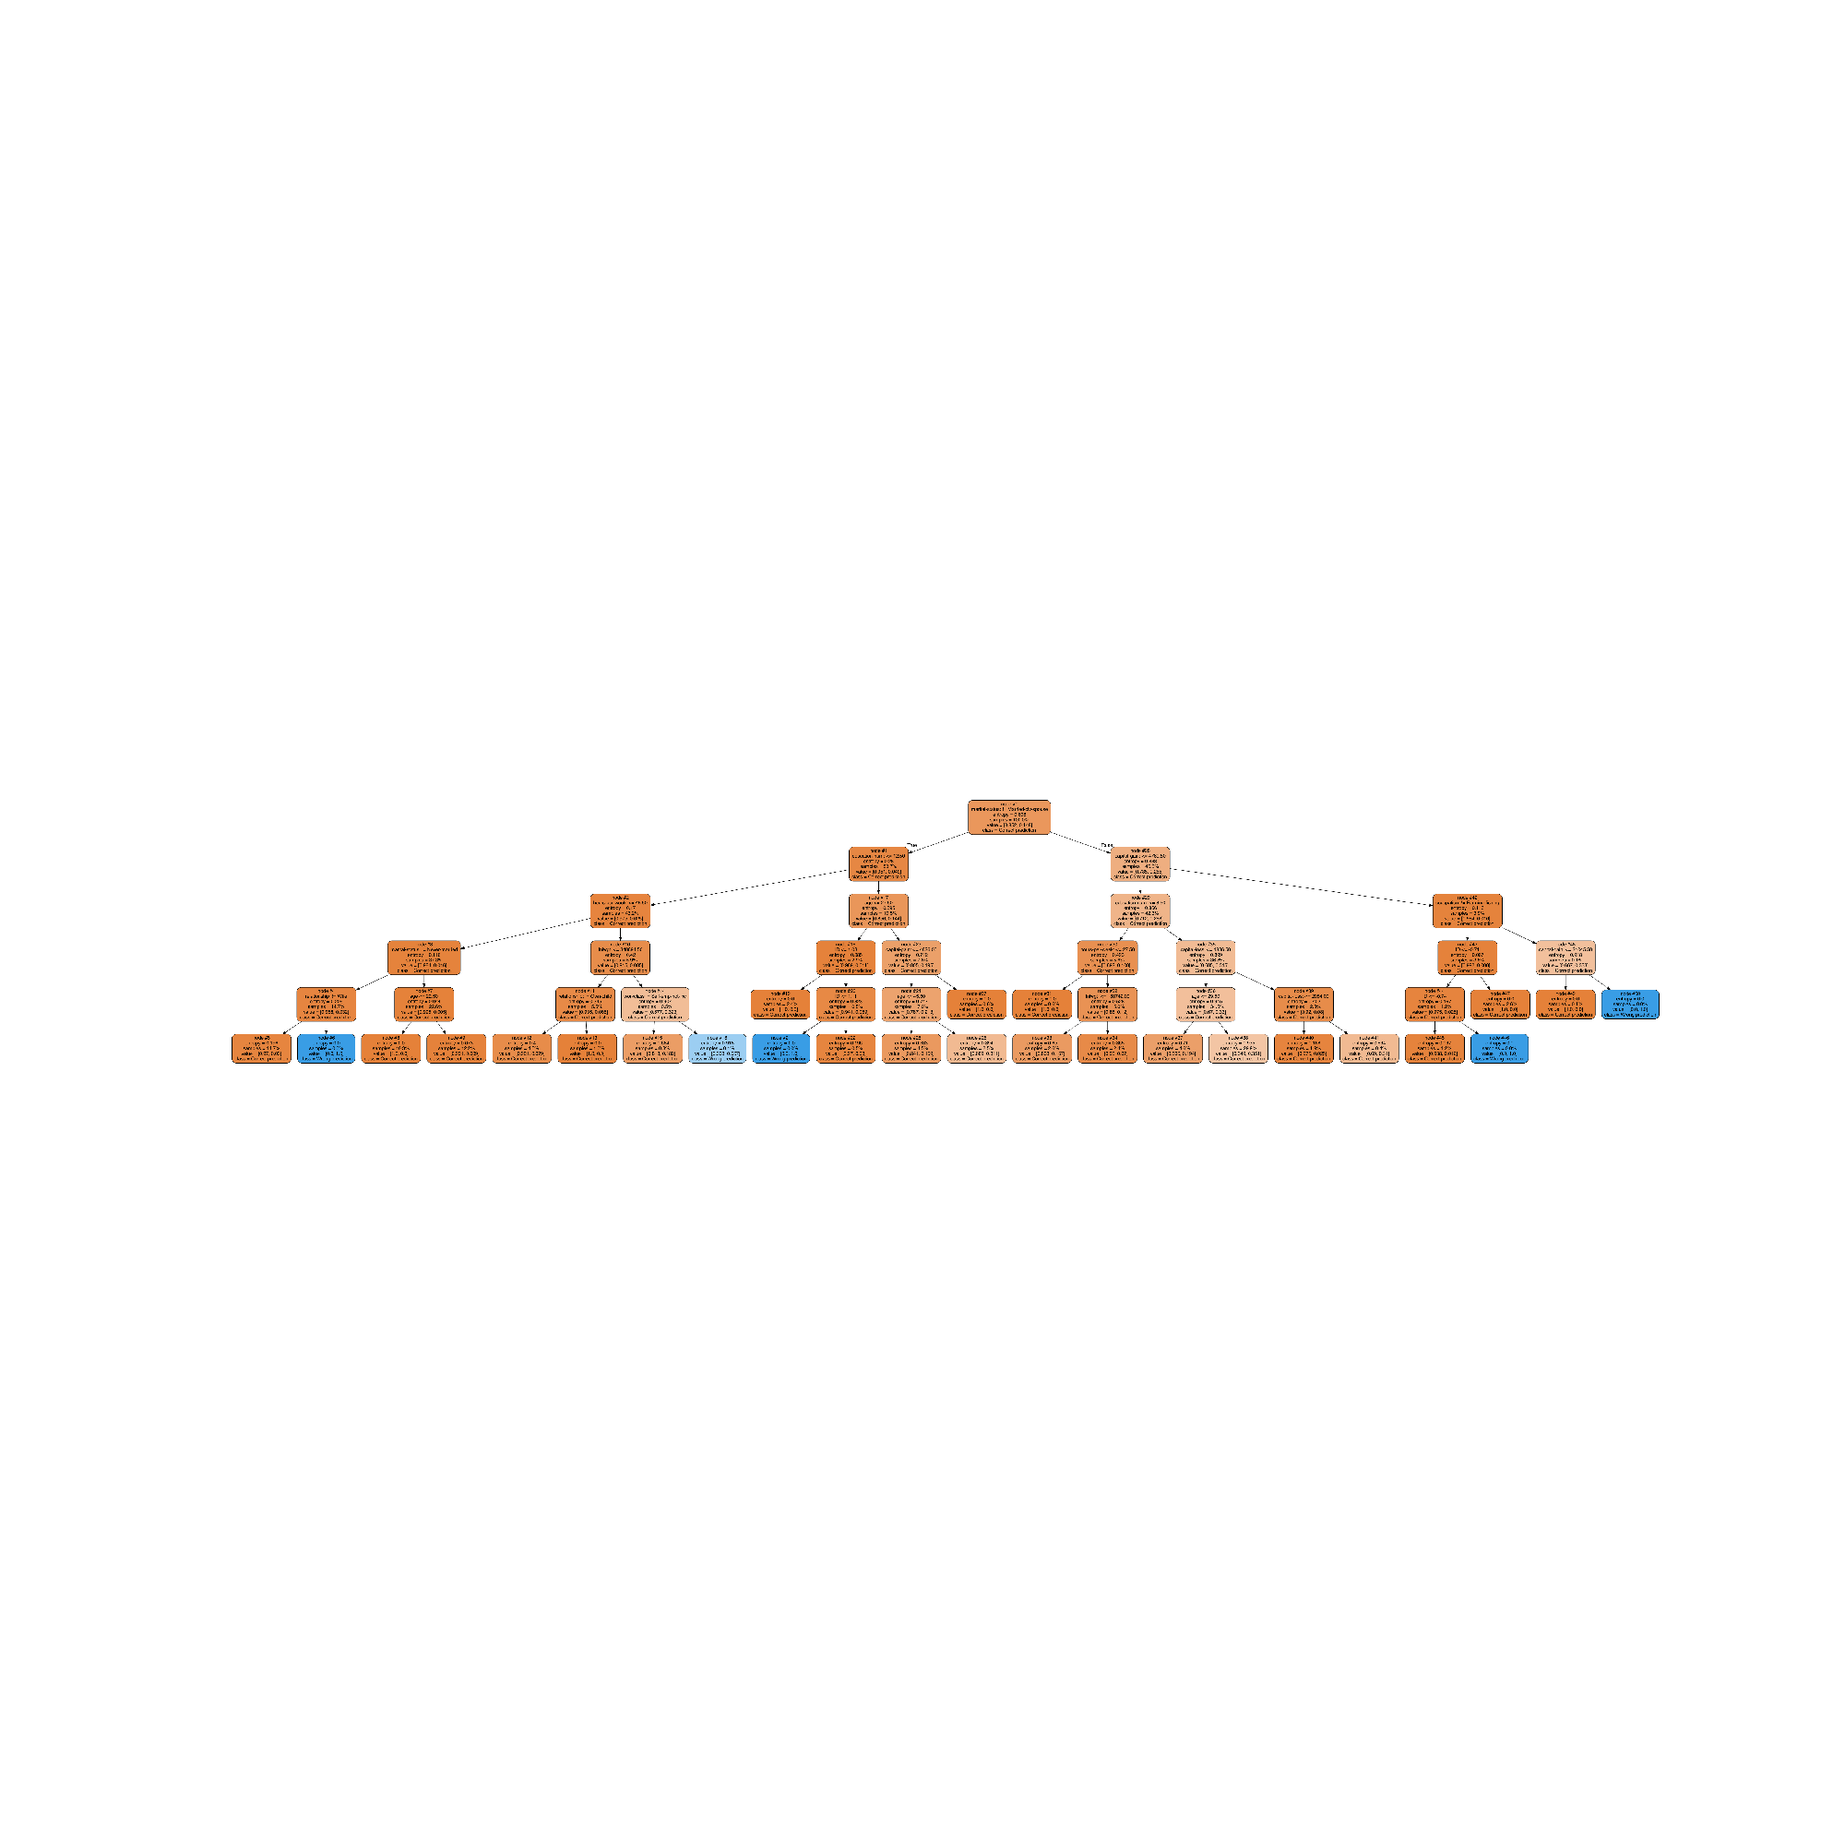
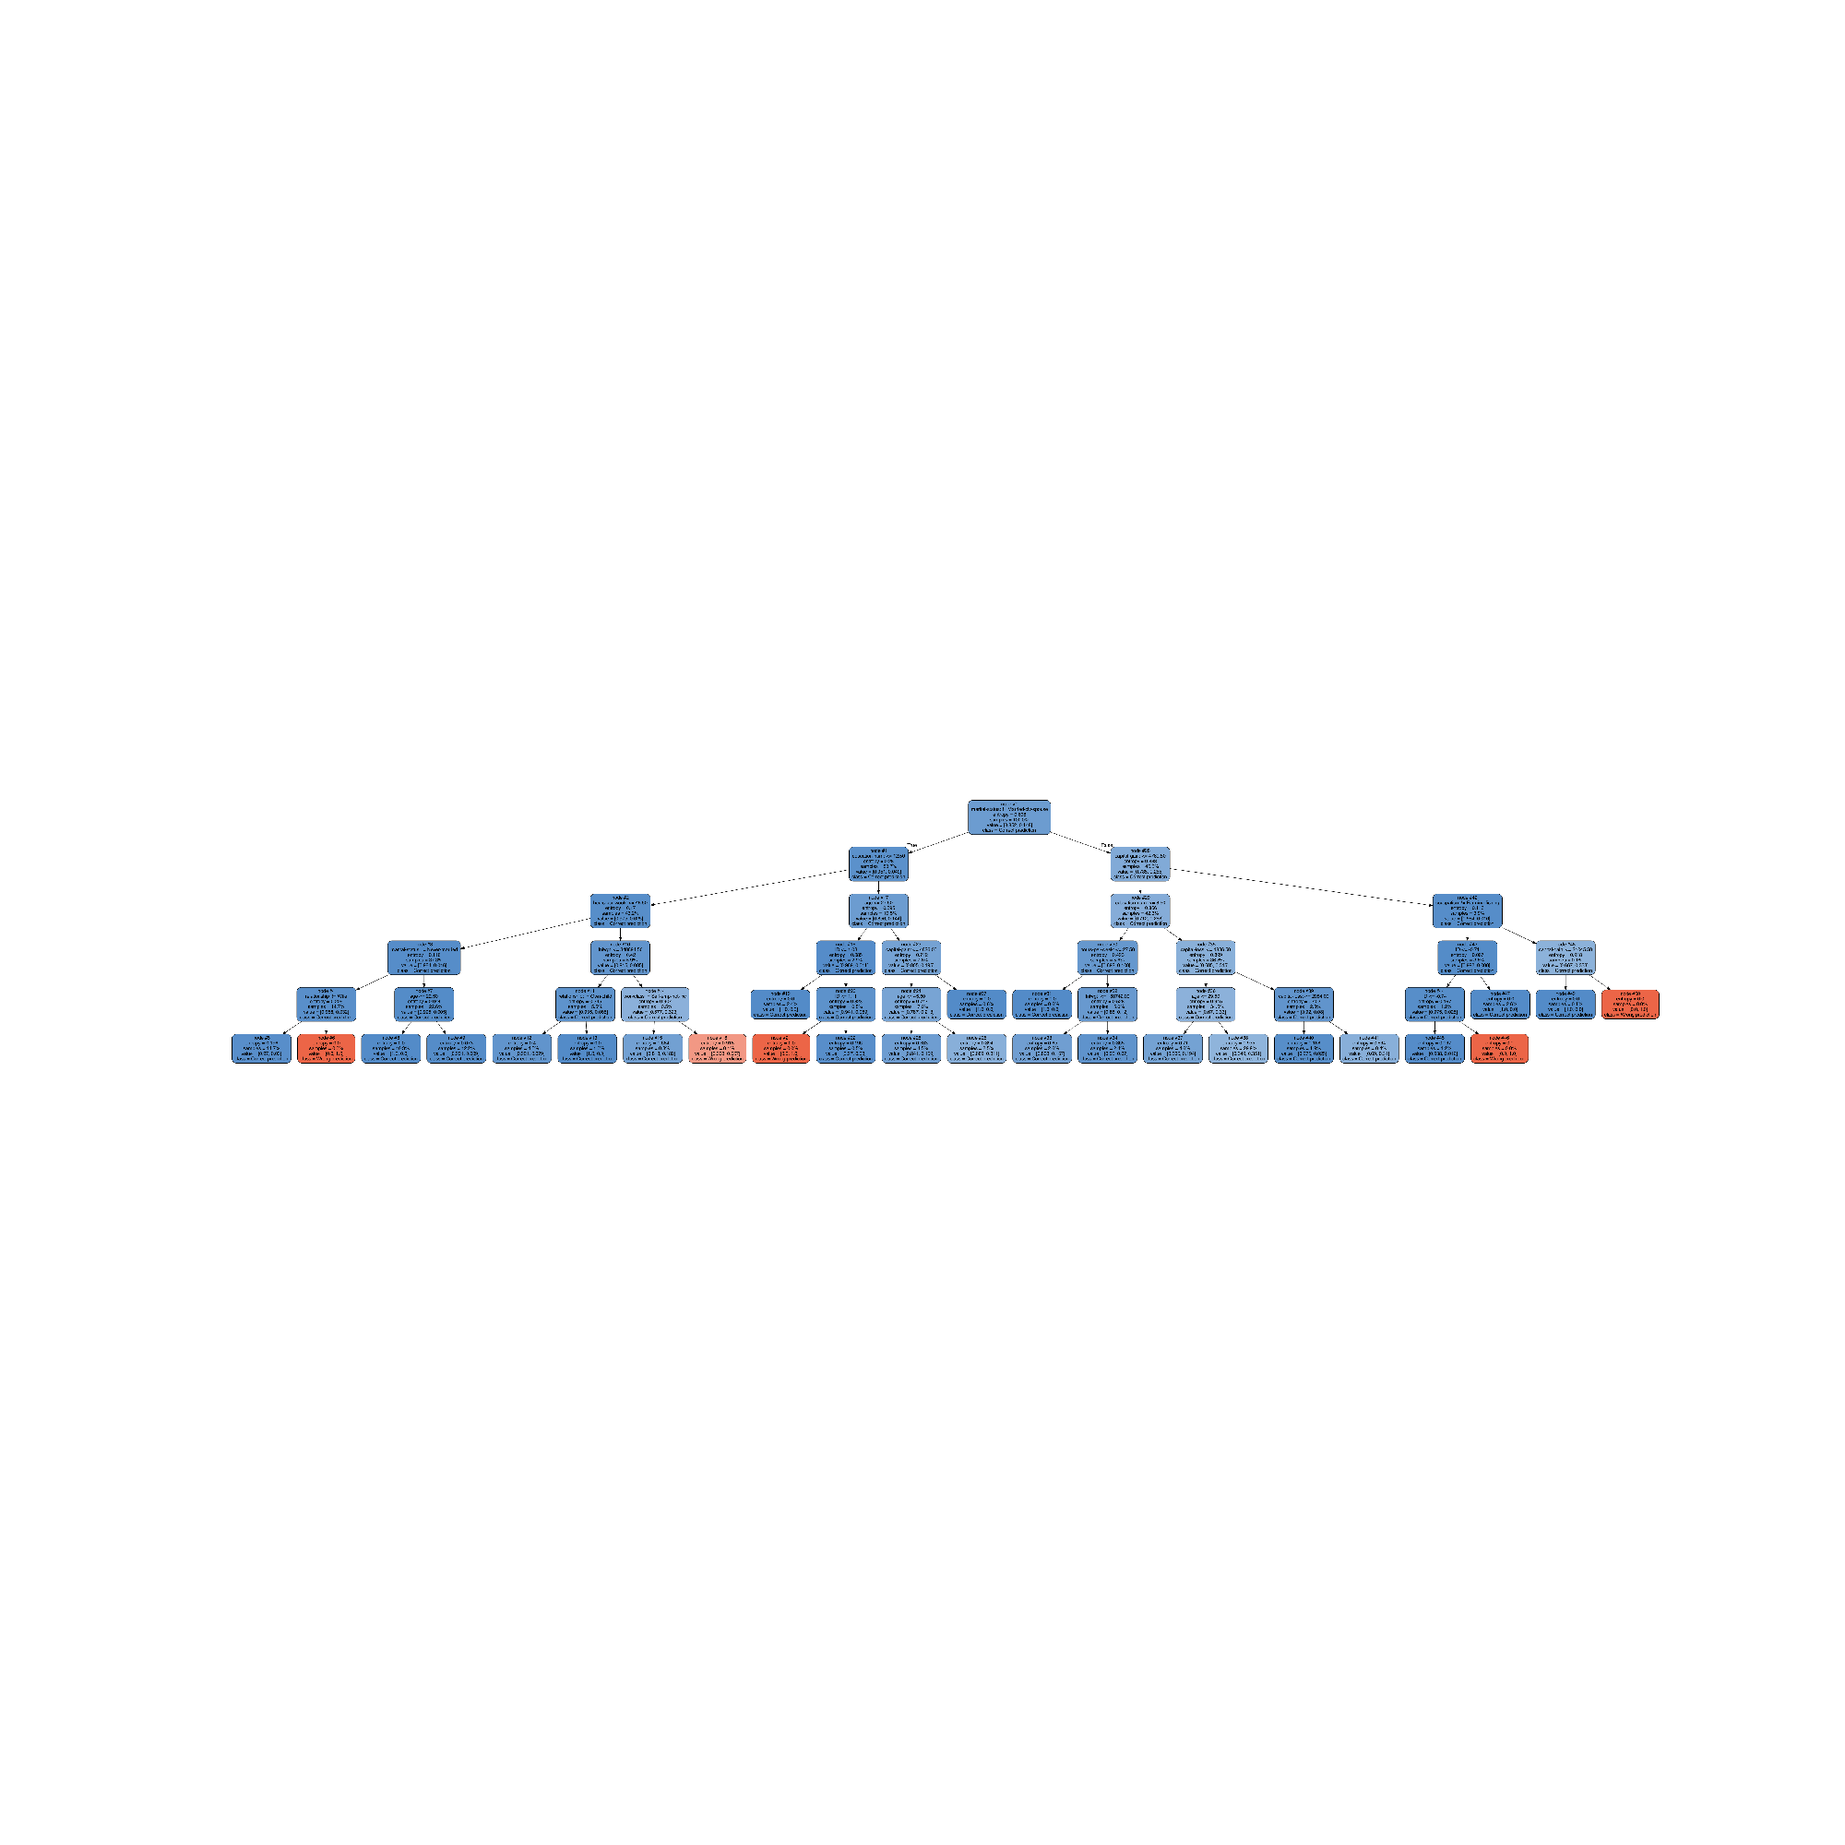
update doc

Changed region(s): [[0.124, 0.434, 0.899, 0.589], [0.527, 0.434, 0.589, 0.465]]

diff --git a/_modules/mea/error_visualizer.html b/_modules/mea/error_visualizer.html
@@ -326,10 +326,25 @@
                     <span class="k">else</span><span class="p">:</span>
                         <span class="n">lte_split_without_feature</span> <span class="o">=</span> <span class="n">lte_split</span><span class="p">[</span><span class="mi">0</span><span class="p">]</span><span class="o">.</span><span class="n">split</span><span class="p">(</span><span class="s1">&#39;</span><span class="se">\\</span><span class="s1">n&#39;</span><span class="p">)[</span><span class="mi">0</span><span class="p">]</span>
                         <span class="n">lte_split_with_new_feature</span> <span class="o">=</span> <span class="n">lte_split_without_feature</span> <span class="o">+</span> <span class="s1">&#39;</span><span class="se">\\</span><span class="s1">n&#39;</span> <span class="o">+</span> <span class="n">split_feature</span>
-                        <span class="n">lte_modified</span> <span class="o">=</span> <span class="s1">&#39; != &#39;</span><span class="o">.</span><span class="n">join</span><span class="p">([</span><span class="n">lte_split_with_new_feature</span><span class="p">,</span> <span class="n">descaled_value</span><span class="p">])</span>
+                        <span class="n">lte_modified</span> <span class="o">=</span> <span class="s1">&#39; != &#39;</span><span class="o">.</span><span class="n">join</span><span class="p">([</span><span class="n">lte_split_with_new_feature</span><span class="p">,</span> <span class="nb">str</span><span class="p">(</span><span class="n">descaled_value</span><span class="p">)])</span>
                     <span class="n">new_label</span> <span class="o">=</span> <span class="s1">&#39;</span><span class="se">\\</span><span class="s1">nentropy&#39;</span><span class="o">.</span><span class="n">join</span><span class="p">([</span><span class="n">lte_modified</span><span class="p">,</span> <span class="n">entropy_split</span><span class="p">[</span><span class="mi">1</span><span class="p">]])</span>
 
                     <span class="n">node</span><span class="o">.</span><span class="n">set_label</span><span class="p">(</span><span class="n">new_label</span><span class="p">)</span>
+
+                <span class="n">alpha</span> <span class="o">=</span> <span class="mf">0.0</span>
+                <span class="n">node_class</span> <span class="o">=</span> <span class="n">ErrorAnalyzerConstants</span><span class="o">.</span><span class="n">CORRECT_PREDICTION</span>
+                <span class="k">if</span> <span class="s1">&#39;value = [&#39;</span> <span class="ow">in</span> <span class="n">node_label</span><span class="p">:</span>
+                    <span class="n">values</span> <span class="o">=</span> <span class="p">[</span><span class="nb">float</span><span class="p">(</span><span class="n">ii</span><span class="p">)</span> <span class="k">for</span> <span class="n">ii</span> <span class="ow">in</span> <span class="n">node_label</span><span class="o">.</span><span class="n">split</span><span class="p">(</span><span class="s1">&#39;value = [&#39;</span><span class="p">)[</span><span class="mi">1</span><span class="p">]</span><span class="o">.</span><span class="n">split</span><span class="p">(</span><span class="s1">&#39;]&#39;</span><span class="p">)[</span><span class="mi">0</span><span class="p">]</span><span class="o">.</span><span class="n">split</span><span class="p">(</span><span class="s1">&#39;,&#39;</span><span class="p">)]</span>
+                    <span class="n">node_arg_class</span> <span class="o">=</span> <span class="n">np</span><span class="o">.</span><span class="n">argmax</span><span class="p">(</span><span class="n">values</span><span class="p">)</span>
+                    <span class="n">node_class</span> <span class="o">=</span> <span class="bp">self</span><span class="o">.</span><span class="n">_error_clf</span><span class="o">.</span><span class="n">classes_</span><span class="p">[</span><span class="n">node_arg_class</span><span class="p">]</span>
+                    <span class="c1"># transparency as the entropy value</span>
+                    <span class="n">alpha</span> <span class="o">=</span> <span class="n">values</span><span class="p">[</span><span class="n">node_arg_class</span><span class="p">]</span>
+                <span class="n">class_color</span> <span class="o">=</span> <span class="n">ErrorAnalyzerConstants</span><span class="o">.</span><span class="n">ERROR_TREE_COLORS</span><span class="p">[</span><span class="n">node_class</span><span class="p">]</span><span class="o">.</span><span class="n">strip</span><span class="p">(</span><span class="s1">&#39;#&#39;</span><span class="p">)</span>
+                <span class="n">class_color_rgb</span> <span class="o">=</span> <span class="nb">tuple</span><span class="p">(</span><span class="nb">int</span><span class="p">(</span><span class="n">class_color</span><span class="p">[</span><span class="n">i</span><span class="p">:</span><span class="n">i</span> <span class="o">+</span> <span class="mi">2</span><span class="p">],</span> <span class="mi">16</span><span class="p">)</span> <span class="k">for</span> <span class="n">i</span> <span class="ow">in</span> <span class="p">(</span><span class="mi">0</span><span class="p">,</span> <span class="mi">2</span><span class="p">,</span> <span class="mi">4</span><span class="p">))</span>
+                <span class="c1"># compute the color as alpha against white</span>
+                <span class="n">color_rgb</span> <span class="o">=</span> <span class="p">[</span><span class="nb">int</span><span class="p">(</span><span class="nb">round</span><span class="p">(</span><span class="n">alpha</span> <span class="o">*</span> <span class="n">c</span> <span class="o">+</span> <span class="p">(</span><span class="mi">1</span> <span class="o">-</span> <span class="n">alpha</span><span class="p">)</span> <span class="o">*</span> <span class="mi">255</span><span class="p">,</span> <span class="mi">0</span><span class="p">))</span> <span class="k">for</span> <span class="n">c</span> <span class="ow">in</span> <span class="n">class_color_rgb</span><span class="p">]</span>
+                <span class="n">color</span> <span class="o">=</span> <span class="s1">&#39;#</span><span class="si">{:02x}{:02x}{:02x}</span><span class="s1">&#39;</span><span class="o">.</span><span class="n">format</span><span class="p">(</span><span class="n">color_rgb</span><span class="p">[</span><span class="mi">0</span><span class="p">],</span> <span class="n">color_rgb</span><span class="p">[</span><span class="mi">1</span><span class="p">],</span> <span class="n">color_rgb</span><span class="p">[</span><span class="mi">2</span><span class="p">])</span>
+                <span class="n">node</span><span class="o">.</span><span class="n">set_fillcolor</span><span class="p">(</span><span class="n">color</span><span class="p">)</span>
 
         <span class="k">if</span> <span class="n">size</span> <span class="ow">is</span> <span class="ow">not</span> <span class="kc">None</span><span class="p">:</span>
             <span class="n">pydot_graph</span><span class="o">.</span><span class="n">set_size</span><span class="p">(</span><span class="s1">&#39;&quot;</span><span class="si">%d</span><span class="s1">,</span><span class="si">%d</span><span class="s1">!&quot;&#39;</span> <span class="o">%</span> <span class="p">(</span><span class="n">size</span><span class="p">[</span><span class="mi">0</span><span class="p">],</span> <span class="n">size</span><span class="p">[</span><span class="mi">1</span><span class="p">]))</span>
@@ -420,8 +435,9 @@
                 <span class="k">else</span><span class="p">:</span>
 
                     <span class="n">bins</span> <span class="o">=</span> <span class="n">np</span><span class="o">.</span><span class="n">unique</span><span class="p">(</span><span class="n">feature_column</span><span class="p">)[:</span><span class="n">nr_bins</span><span class="p">]</span>
-                    <span class="n">histogram_func</span> <span class="o">=</span> <span class="k">lambda</span> <span class="n">f_samples</span><span class="p">:</span> <span class="n">np</span><span class="o">.</span><span class="n">bincount</span><span class="p">(</span><span class="n">np</span><span class="o">.</span><span class="n">searchsorted</span><span class="p">(</span><span class="n">bins</span><span class="p">,</span> <span class="n">f_samples</span><span class="p">),</span>
-                                                                   <span class="n">minlength</span><span class="o">=</span><span class="nb">len</span><span class="p">(</span><span class="n">bins</span><span class="p">))[:</span><span class="n">nr_bins</span><span class="p">]</span>
+                    <span class="n">histogram_func</span> <span class="o">=</span> <span class="k">lambda</span> <span class="n">f_samples</span><span class="p">:</span> \
+                        <span class="n">np</span><span class="o">.</span><span class="n">bincount</span><span class="p">(</span><span class="n">np</span><span class="o">.</span><span class="n">searchsorted</span><span class="p">(</span><span class="n">bins</span><span class="p">,</span> <span class="n">f_samples</span><span class="p">),</span>
+                                    <span class="n">minlength</span><span class="o">=</span><span class="nb">len</span><span class="p">(</span><span class="n">bins</span><span class="p">))[:</span><span class="n">nr_bins</span><span class="p">]</span><span class="o">.</span><span class="n">astype</span><span class="p">(</span><span class="nb">float</span><span class="p">)</span><span class="o">/</span><span class="nb">len</span><span class="p">(</span><span class="n">f_samples</span><span class="p">)</span>
 
                 <span class="k">if</span> <span class="n">show_global</span><span class="p">:</span>
                     <span class="k">if</span> <span class="n">show_class</span><span class="p">:</span>

diff --git a/auto_examples/sg_execution_times.html b/auto_examples/sg_execution_times.html
@@ -173,7 +173,7 @@
             
   <div class="section" id="computation-times">
 <span id="sphx-glr-auto-examples-sg-execution-times"></span><h1>Computation times<a class="headerlink" href="#computation-times" title="Permalink to this headline">¶</a></h1>
-<p><strong>00:22.955</strong> total execution time for <strong>auto_examples</strong> files:</p>
+<p><strong>00:26.937</strong> total execution time for <strong>auto_examples</strong> files:</p>
 <table class="docutils align-default">
 <colgroup>
 <col style="width: 79%" />
@@ -182,12 +182,12 @@
 </colgroup>
 <tbody>
 <tr class="row-odd"><td><p><a class="reference internal" href="plot_mea_pipeline.html#sphx-glr-auto-examples-plot-mea-pipeline-py"><span class="std std-ref">Model Error Analysis with scikit-learn Pipeline for the Adult income dataset</span></a> (<code class="docutils literal notranslate"><span class="pre">plot_mea_pipeline.py</span></code>)</p></td>
-<td><p>00:22.955</p></td>
-<td><p>499.8 MB</p></td>
+<td><p>00:23.072</p></td>
+<td><p>436.0 MB</p></td>
 </tr>
 <tr class="row-even"><td><p><a class="reference internal" href="plot_mea.html#sphx-glr-auto-examples-plot-mea-py"><span class="std std-ref">Model Error Analysis for the Boston houses dataset</span></a> (<code class="docutils literal notranslate"><span class="pre">plot_mea.py</span></code>)</p></td>
-<td><p>00:00.000</p></td>
-<td><p>0.0 MB</p></td>
+<td><p>00:03.865</p></td>
+<td><p>196.8 MB</p></td>
 </tr>
 </tbody>
 </table>

diff --git a/auto_examples/plot_mea.html b/auto_examples/plot_mea.html
@@ -368,8 +368,8 @@ From the feature distributions, sorted by correlation with the error, we can see
 the majority of problems occur for extreme values of features <code class="docutils literal notranslate"><span class="pre">LSTAT</span></code> and <code class="docutils literal notranslate"><span class="pre">AGE</span></code>.
 In the next iteration of model design, the primary model needs to be improved for these
 subpopulations.</p>
-<p class="sphx-glr-timing"><strong>Total running time of the script:</strong> ( 0 minutes  4.064 seconds)</p>
-<p><strong>Estimated memory usage:</strong>  196 MB</p>
+<p class="sphx-glr-timing"><strong>Total running time of the script:</strong> ( 0 minutes  3.865 seconds)</p>
+<p><strong>Estimated memory usage:</strong>  197 MB</p>
 <div class="sphx-glr-footer class sphx-glr-footer-example docutils container" id="sphx-glr-download-auto-examples-plot-mea-py">
 <div class="sphx-glr-download docutils container">
 <p><a class="reference download internal" download="" href="../_downloads/b9c7db120083279d70637f728d144247/plot_mea.py"><code class="xref download docutils literal notranslate"><span class="pre">Download</span> <span class="pre">Python</span> <span class="pre">source</span> <span class="pre">code:</span> <span class="pre">plot_mea.py</span></code></a></p>

diff --git a/auto_examples/plot_mea_pipeline.html b/auto_examples/plot_mea_pipeline.html
@@ -403,8 +403,8 @@ From the feature distributions, sorted by correlation with the error, we can see
 the majority of problems occur for divorced people with low capital gain.
 In the next iteration of model design, the primary model needs to be improved for these
 subpopulations.</p>
-<p class="sphx-glr-timing"><strong>Total running time of the script:</strong> ( 0 minutes  22.955 seconds)</p>
-<p><strong>Estimated memory usage:</strong>  500 MB</p>
+<p class="sphx-glr-timing"><strong>Total running time of the script:</strong> ( 0 minutes  23.072 seconds)</p>
+<p><strong>Estimated memory usage:</strong>  436 MB</p>
 <div class="sphx-glr-footer class sphx-glr-footer-example docutils container" id="sphx-glr-download-auto-examples-plot-mea-pipeline-py">
 <div class="sphx-glr-download docutils container">
 <p><a class="reference download internal" download="" href="../_downloads/48a296b5854b6a1be0e2ae6f4a4fe848/plot_mea_pipeline.py"><code class="xref download docutils literal notranslate"><span class="pre">Download</span> <span class="pre">Python</span> <span class="pre">source</span> <span class="pre">code:</span> <span class="pre">plot_mea_pipeline.py</span></code></a></p>
